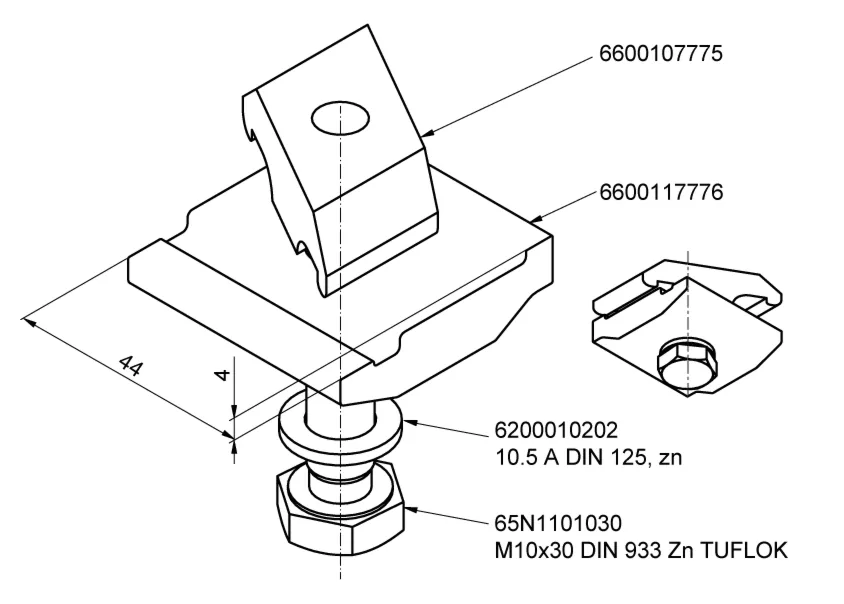
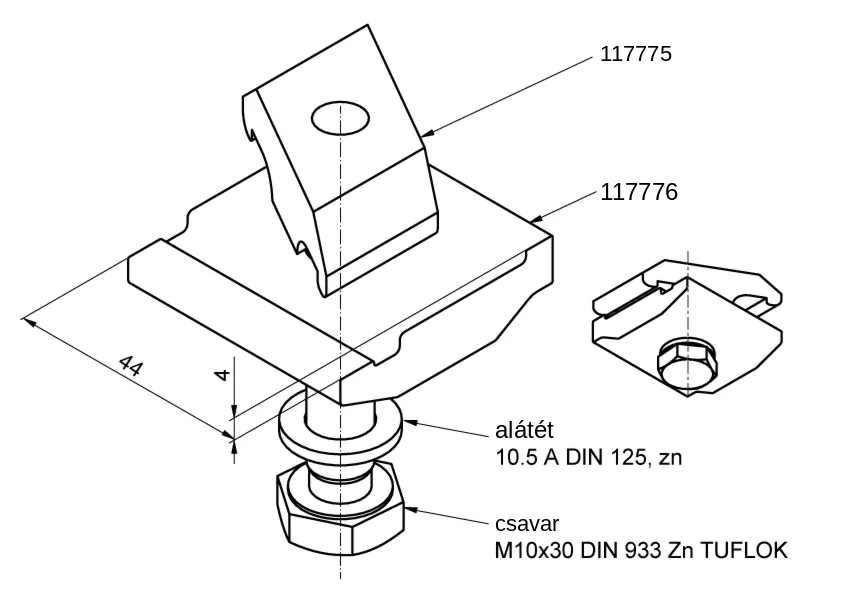
Alu-SV kötőelemek (117774–117777, 117787): termékfotó a rajz elé; a 117777 és 117787 rajzán az idegen cikkszámok helyett Quadris-cikkszám / megnevezés
Claude-Session: https://claude.ai/code/session_01GqcGcrqDWYvNfyrVUkczEM

diff --git a/scripts/termekadatok/alusv.py b/scripts/termekadatok/alusv.py
@@ -1,6 +1,6 @@
 """ALU-SV (CZ/SK) – keresés rendelési szám alapján, majd a termékoldal adatai és képe.
 
-Használat: python3 scripts/termekadatok/alusv.py
+Használat: python3 scripts/termekadatok/alusv.py [Quadris-kód …]   (kóddal csak azokat frissíti)
 """
 
 import html
@@ -85,6 +85,53 @@ PROFILE_SIZE = {"662AP17730": {"Szélesség": "127,0 mm", "Magasság": "177,0 mm
                 "66OZ035255": {"Szélesség": "265,0 mm", "Magasság": "35,0 mm"}}
 
 
+# a Quadris kérésére ezekhez a rajz mellé az Alu-SV termékfotója is (elöl)
+PHOTO = {"117774", "117775", "117776", "117777", "117787"}
+# a szerelt kötőelemek rajzán az Alu-SV alkatrész-cikkszámai helyett a Quadris-cikkszám / magyar megnevezés
+# (6600107775 = 117775, 6600117776 = 117776, 6600107776 = 117774; a csavar és az alátét gyári kódja helyett a neve):
+# Quadris-kód -> [(a régi felirat keresési téglalapja a rajzon, új szöveg, igazítás: l = bal, r = jobb)]
+RELABEL = {
+    "117777": [((583, 40, 760, 65), "117775", "l"), ((583, 178, 760, 203), "117776", "l"),
+               ((492, 415, 640, 441), "alátét", "l"), ((492, 510, 640, 534), "csavar", "l")],
+    "117787": [((520, 28, 700, 60), "117775", "l"), ((70, 230, 252, 262), "117774", "r"),
+               ((70, 278, 252, 308), "csavar", "r"), ((568, 234, 745, 266), "alátét", "l")],
+}
+FONT = "/usr/share/fonts/truetype/liberation/LiberationSans-Regular.ttf"
+
+
+def relabel(img, items):
+    """A rajz feliratainak cseréje: a régi szöveg (a vízszintes mutatóvonal nélkül) fehérre, helyére az új, azonos magassággal."""
+    import numpy as np
+    from PIL import ImageDraw, ImageFont
+    a = np.asarray(img.convert("L"))
+    d = ImageDraw.Draw(img)
+    for (x0, y0, x1, y1), new, align in items:
+        dark = a[y0:y1, x0:x1] < 160
+        cols = [x for x in range(dark.shape[1]) if dark[:, x].sum() > 3]  # a mutatóvonal oszlopai kimaradnak
+        rows = np.where(dark[:, cols].any(1))[0]
+        bx0, by0, bx1, by1 = x0 + min(cols), y0 + rows.min(), x0 + max(cols), y0 + rows.max()
+        d.rectangle([bx0 - 1, by0 - 2, bx1 + 1, by1 + 2], fill="white")
+        fnt = ImageFont.truetype(FONT, round((by1 - by0 + 1) / 0.72))
+        w = d.textlength(new, font=fnt)
+        d.text((bx0 if align == "l" else bx1 - w, by1 + 1), new, font=fnt, fill="black", anchor="ls")
+    return img
+
+
+def trim_photo(data):
+    """A termékfotó körüli nagy fehér rész levágása (5% margóval)."""
+    import io
+
+    import numpy as np
+    from PIL import Image
+    img = Image.open(io.BytesIO(data)).convert("RGB")
+    ys, xs = np.where(np.asarray(img.convert("L")) < 235)
+    img = img.crop((xs.min(), ys.min(), xs.max() + 1, ys.max() + 1))
+    m = int(max(img.size) * 0.05)
+    bg = Image.new("RGB", (img.width + 2 * m, img.height + 2 * m), "white")
+    bg.paste(img, (m, m))
+    return bg
+
+
 def remove_badge(data):
     """Az Alu-SV rajzain lévő sárgászöld „N” (natúr) jelölés eltávolítása: a kör és a benne lévő betű fehér lesz."""
     import io
@@ -123,9 +170,12 @@ def image_only_specs(code, info):
     return specs
 
 
-def main():
+def main(only=None):
+    """only: csak ezek a Quadris-kódok (kézi frissítéshez); ilyenkor a többi Alu-SV bejegyzés érintetlen marad."""
     products = load_products(SUPPLIER)
     products += [p for p in load_products() if (p["code"] in EXTRA or p["code"] in IMAGE_ONLY) and p not in products]
+    if only:
+        products = [p for p in products if p["code"] in only]
     enrichment, missing = {}, []
     for p in products:
         info, code = None, None
@@ -146,9 +196,15 @@ def main():
         # a "full" és a normál rajz ugyanaz a kép: csak az elsőt mentjük
         for url in info["images"][:1]:
             try:
-                images.append(save_image(remove_badge(fetch(url)), p["slug"]))
+                img = remove_badge(fetch(url))
+                images.append(save_image(relabel(img, RELABEL[p["code"]]) if p["code"] in RELABEL else img, p["slug"]))
             except Exception as err:  # noqa: BLE001
                 print("  képhiba:", url, err)
+        if p["code"] in PHOTO:
+            try:
+                images.insert(0, save_image(trim_photo(fetch(f"{BASE}/common/images/product/photo/full/{code}.jpg")), p["slug"], 2))
+            except Exception as err:  # noqa: BLE001
+                print("  fotóhiba:", code, err)
         enrichment[p["slug"]] = {
             "source": SUPPLIER,
             "sourceUrl": info["url"],
@@ -158,11 +214,11 @@ def main():
                       {**info["specs"], **({"Felület": "eloxált"} if "elox" in p["name"].lower() and info["specs"].get("Felület") == "natúr" else {})}),
             "images": images,
         }
-    update_enrichment(enrichment, SUPPLIER)
+    update_enrichment(enrichment, None if only else SUPPLIER)
     print(f"{SUPPLIER}: {len(enrichment)}/{len(products)} egyezés")
     for p in missing:
         print(f"  NINCS: {p['supplierCode'] or '-':>16}  {p['name']}")
 
 
 if __name__ == "__main__":
-    main()
+    main(set(sys.argv[1:]) or None)
